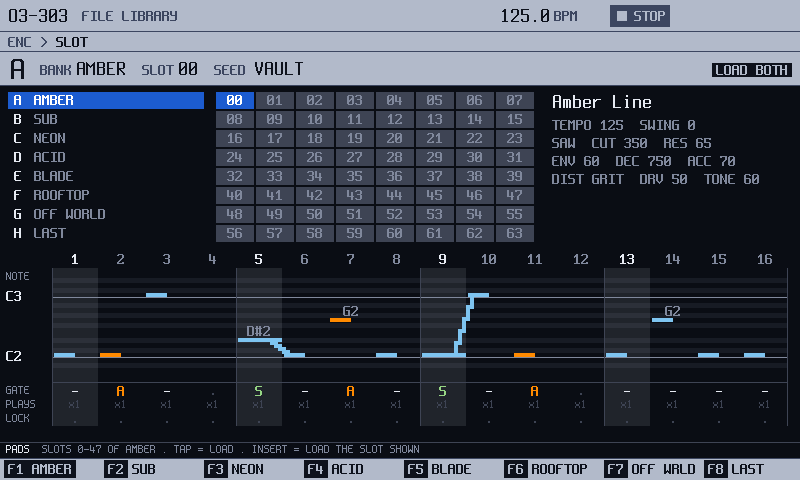
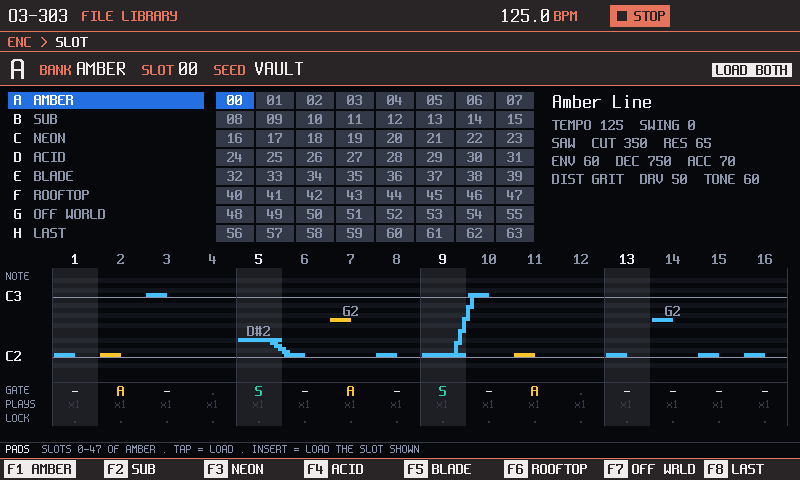
docs(manual): the pictures of MASTER, RECORD, HOOKS and FILE in the obsidian look [UX]
tools/manual_images.py rebuilt docs/manual/img after SK6 and SK7. 12
pictures changed: master, record, record-done, hooks, file-projects,
file-name, library, help-name-pads and help-library-pads are on the
skin now, and home-shift-row, song and song-empty show the dim hints.
41 pictures, 1,763,925 bytes.

Each changed picture was checked by eye against its alt text and
caption. MASTER's alt and caption now name CPU ("--" off the unit) and
USB, record-done's TAKE light is amber, and section 13 says the
pictures show OBSIDIAN except where they say CLASSIC.

diff --git a/docs/MANUAL.md b/docs/MANUAL.md
@@ -443,9 +443,10 @@ The pads, the steps, Rec and the edit buttons work here as on HOME, so you can k
 
 Tap **Master**. The encoder starts on the tempo.
 
-![MASTER: TEMPO 125.0 BPM, NUDGE +0 %, CLOCK INTERNAL, and the left and right meters; the F row TEMPO, TAP, NUDGE and MASTER](manual/img/master.png)
+![MASTER: TEMPO 125.0 BPM in red digits, NUDGE +0 %, TAP, CLOCK INTERNAL, the OUTPUT meters L and R, CPU and USB; the F row TEMPO, TAP, NUDGE and MASTER](manual/img/master.png)
 
-*MASTER while the line plays. CLOCK says where the tempo comes from (MIDI is set in Config).*
+*MASTER while the line plays. CLOCK says where the tempo comes from (MIDI is set in Config). CPU is the sound engine's load on the unit
+(the pictures are made on a computer, so it reads "--"); USB says whether a computer is taking the unit's audio.*
 
 | Key | What |
 |---|---|
@@ -561,7 +562,7 @@ Press **Sample Rec**. RECORD makes a WAV of what you play (section 11).
 | F6 SAVE | Write the take to the card as a WAV |
 | F7 DISCARD | Drop the take (press twice) |
 
-![RECORD with a finished take: DONE 0:07.6, the take's waveform in green, TAKE READY in red, F6 SAVE READY](manual/img/record-done.png)
+![RECORD with a finished take: DONE 0:07.6, the take's waveform in green, the TAKE light READY in amber at the top, F6 SAVE READY](manual/img/record-done.png)
 
 *A four-bar take, done. F6 saves it, F7 drops it.*
 
@@ -785,8 +786,8 @@ and tempo, lamps, real-looking knobs, dark glass. The buttons and the pads do th
 - **CLASSIC is the default today.** OBSIDIAN becomes the default later, once it has been tested on a unit. There is no date.
 - **Every screen has its OBSIDIAN form except FILE LIBRARY.** HOME, PATTERN SETUP, PERFORM, PERFORM SETUP, INSTRUMENT, SONG, MASTER, RECORD,
   HOOKS and FILE PROJECTS (with its name keyboard) have it. FILE LIBRARY keeps its CLASSIC layout, with the header and the key row of the
-  system, in the OBSIDIAN colours: it is too full to be redrawn on the panel. The pictures of the screens in this manual that have a new look
-  now will change when the pictures are rebuilt. Config is the unit's own screen and looks the same in both; HELP takes the look's colours.
+  system, in the OBSIDIAN colours: it is too full to be redrawn on the panel. The pictures of the screens in this manual show the OBSIDIAN
+  look, except where they say CLASSIC. Config is the unit's own screen and looks the same in both; HELP takes the look's colours.
 
 ---
 
